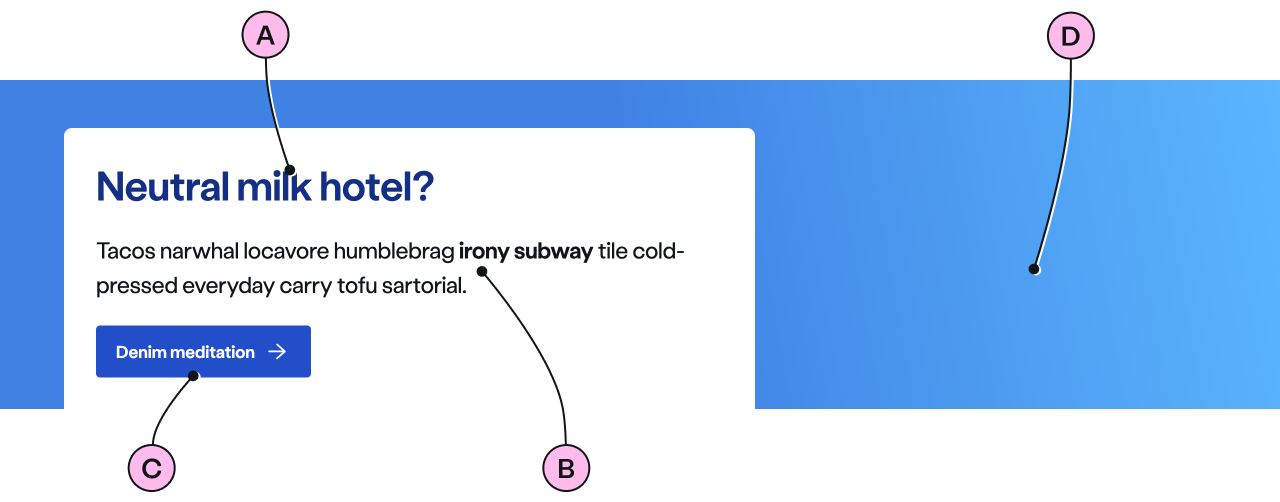
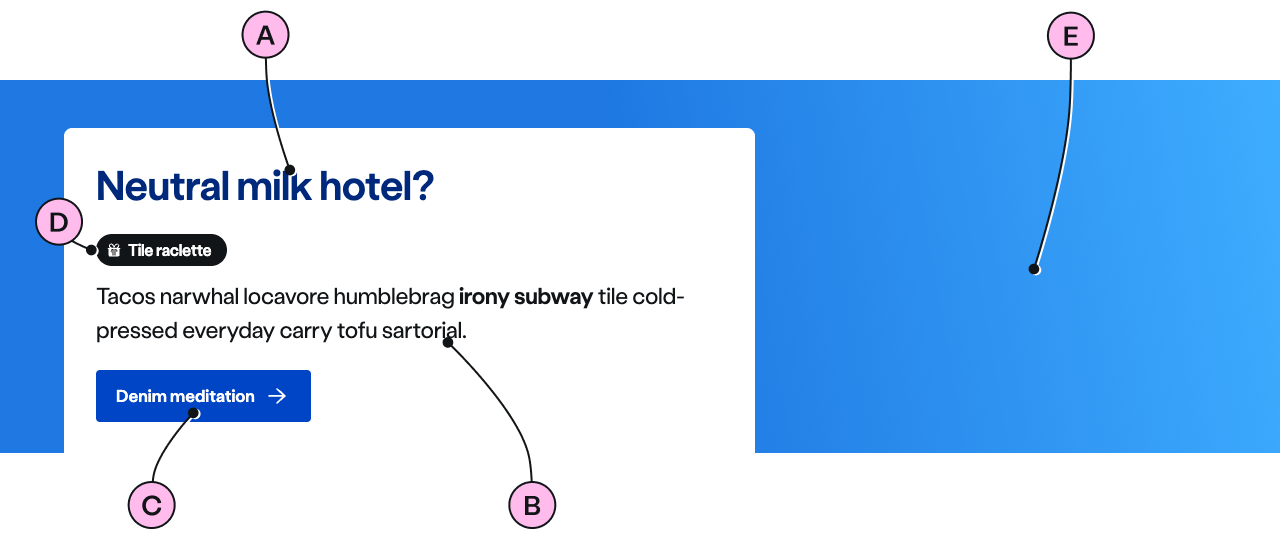
feat: add pill to all guidance images and key

diff --git a/src/assets/components/ns-landmark/valley-pill-over-image.html b/src/assets/components/ns-landmark/valley-pill-over-image.html
@@ -1,0 +1,7 @@
+<ns-landmark type="valley" pill-over-image image="/placeholder-4x3-720x540px.webp">
+  <h1 slot="heading">Paleo synth marfa pour-over vibecession</h1>
+  <ns-pill slot="pill" icon="rewards">Tile raclette</ns-pill>
+  <div slot="paragraph">
+    <p>Normcore tumblr godard mumblecore typewriter vinyl ascot fanny pack gochujang man braid ugh kinfolk try-hard succulents.</p>
+  </div>
+</ns-landmark>
